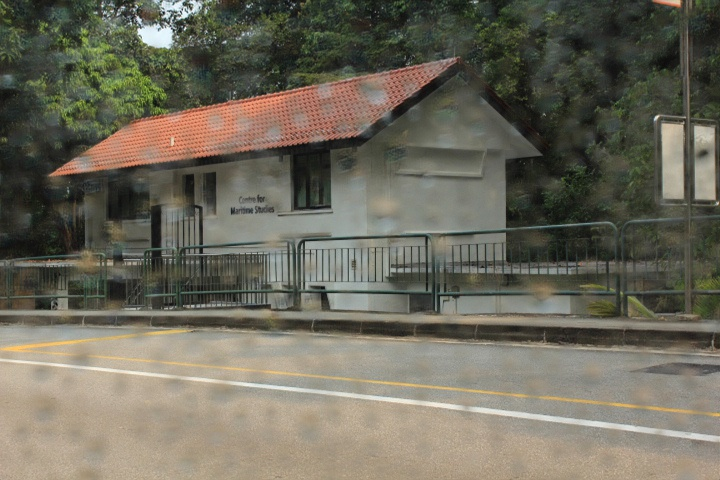
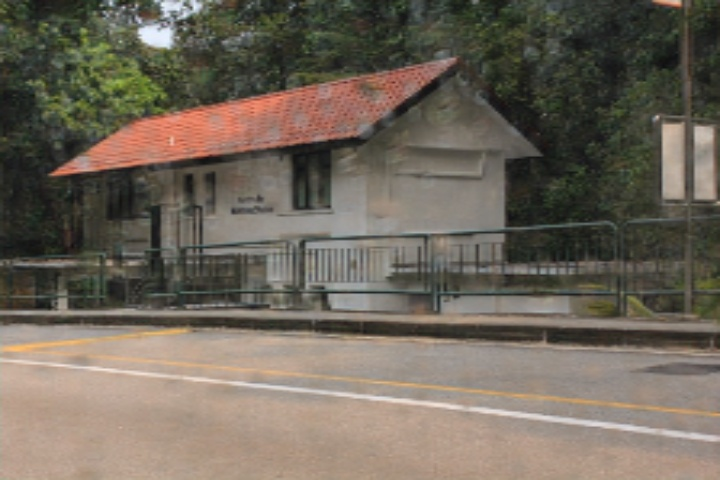
Fix code

diff --git a/models/modules.py b/models/modules.py
@@ -245,47 +245,6 @@ class RainDropMaskDecoder(nn.Module):
         return mask
 
 
-def plot_raindrop_mask(mask, save_path=None, show=False):
-    """
-    Plot a heatmap visualization of the raindrop mask.
-
-    Parameters:
-    -----------
-    mask : torch.Tensor or numpy.ndarray
-        The raindrop mask with shape (1, H, W) or (H, W)
-    save_path : str, optional
-        Path to save the visualization. If None, the image is not saved.
-    show : bool, default=True
-        Whether to display the plot
-    """
-    # Convert to numpy if it's a torch tensor
-    if isinstance(mask, torch.Tensor):
-        mask = mask.detach().cpu().numpy()
-
-    # Squeeze the channel dimension if it exists
-    if mask.shape[0] == 1:
-        mask = mask.squeeze(0)
-
-    # Create figure
-    plt.figure(figsize=(10, 8))
-
-    # Plot heatmap
-    im = plt.imshow(mask, cmap="jet")
-    plt.colorbar(im, label="Mask Intensity")
-    plt.title("Raindrop Mask Heatmap")
-    plt.axis("off")
-
-    # Save if path is provided
-    if save_path is not None:
-        plt.savefig(save_path, bbox_inches="tight", dpi=300)
-
-    # Show or close
-    if show:
-        plt.show()
-    else:
-        plt.close()
-
-
 if __name__ == "__main__":
     rain_drop_mask_decoder = RainDropMaskDecoder(
         embed_dim=1024, num_heads=8, depth=12, mlp_dim=4096, dropout=0.0

diff --git a/predict.py b/predict.py
@@ -81,8 +81,11 @@ if __name__ == "__main__":
         for i in range(num):
             print("Processing image: %s" % (input_list[i]))
             img = cv2.imread(args.input_dir + input_list[i])
-            img = align_to_four(img)
+            original_h, original_w = img.shape[:2]
+            img = cv2.resize(img, (224, 224))
+            # img = align_to_four(img)
             result = predict(img)
+            result = cv2.resize(result, (original_w, original_h))
             img_name = input_list[i].split(".")[0]
             path = os.path.join(args.output_dir, img_name + ".jpg")
             cv2.imwrite(path, result)

diff --git a/models/generator.py b/models/generator.py
@@ -507,7 +507,7 @@ class GeneratorWithTransformer(nn.Module):
         self.outframe1 = nn.Sequential(nn.Conv2d(256, 3, 3, 1, 1), nn.ReLU())
         self.outframe2 = nn.Sequential(nn.Conv2d(128, 3, 3, 1, 1), nn.ReLU())
         self.output = nn.Sequential(nn.Conv2d(32, 3, 3, 1, 1))
-        self.raindrop_decoder = RainDropMaskDecoder(embed_dim=1024, num_heads=8, depth=6, mlp_dim=2048, dropout=0.0)
+        self.raindrop_decoder = RainDropMaskDecoder(embed_dim=1024, num_heads=8, depth=12, mlp_dim=4096, dropout=0.0)
 
     def forward(self, input):
         mask = self.raindrop_decoder(input)
